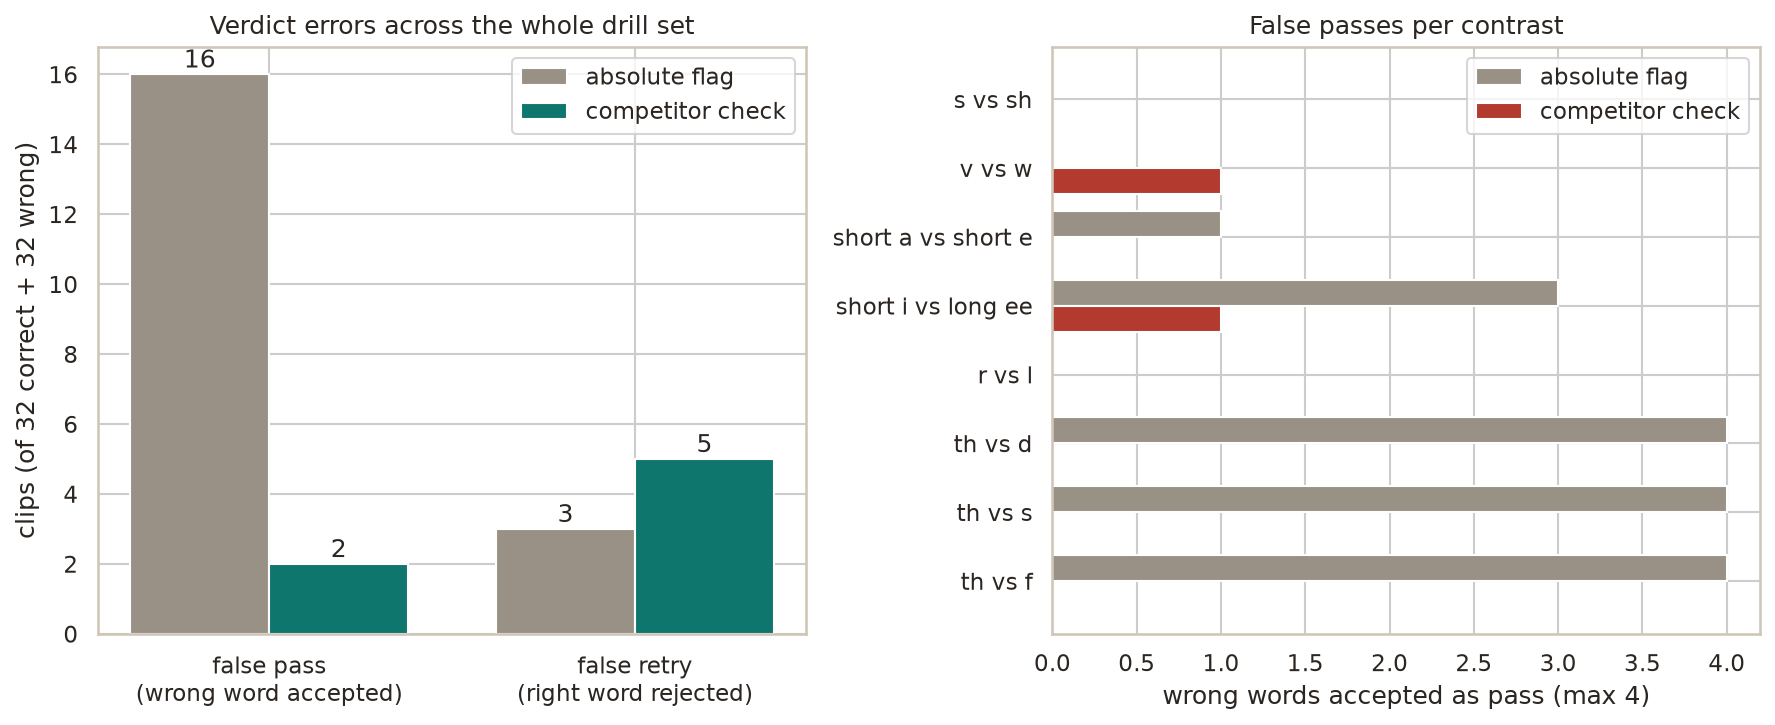
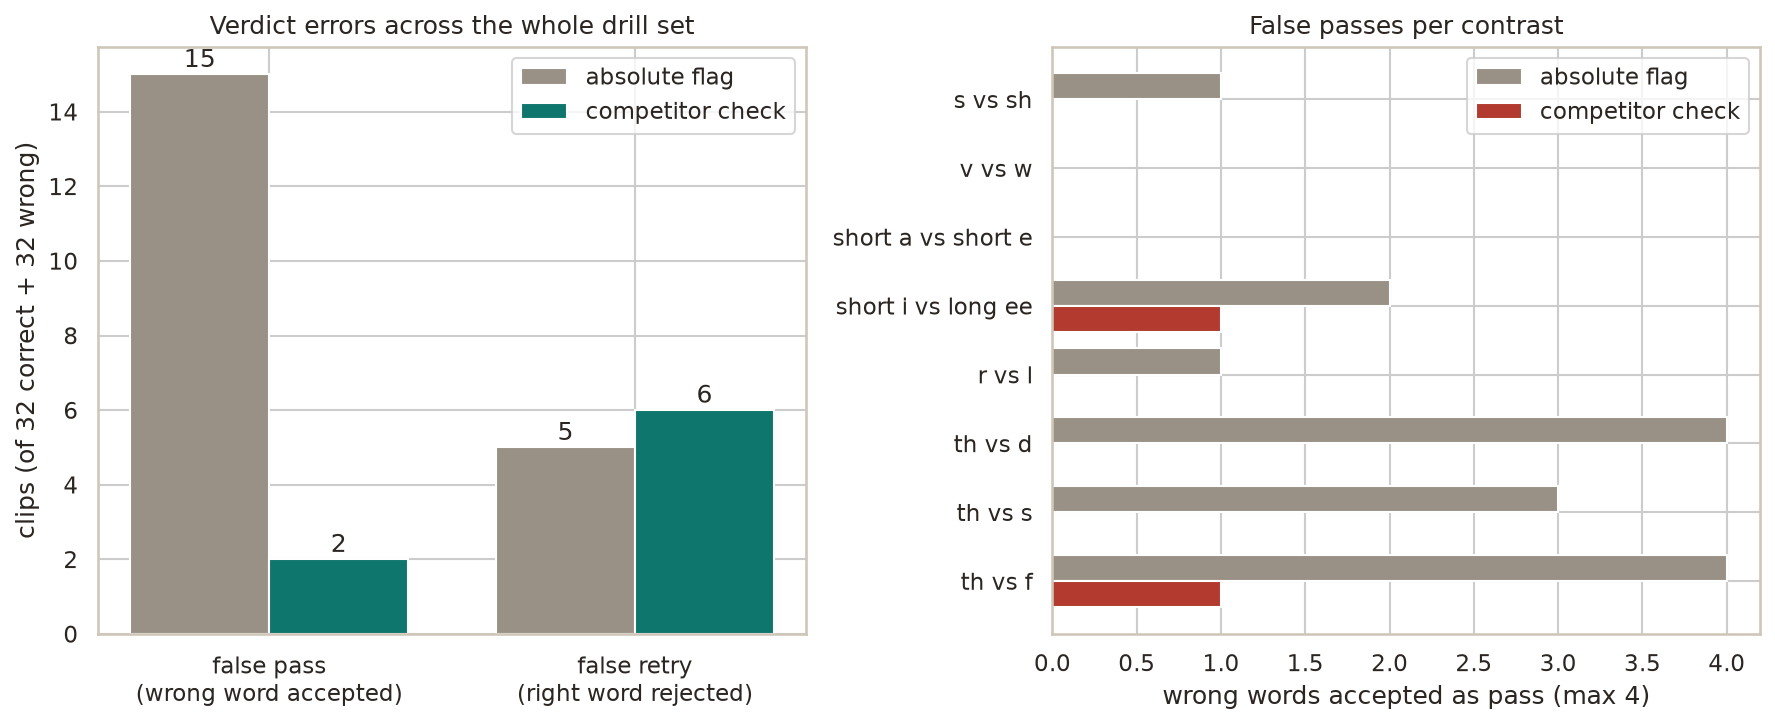
test(calibration): add the word-identity recognition check

diff --git a/backend/calibration/contrast_eval.py b/backend/calibration/contrast_eval.py
@@ -29,10 +29,15 @@ from diction.config import Settings
 from diction.drills.minimal_pairs_data import MINIMAL_PAIR_CONTRASTS
 from diction.scoring.audio import MIN_WORD_CLIP_SECONDS, ClipTooWeakError
 from diction.scoring.scorer_gop import GopScorer
+from diction.scoring.text import normalize_word
 from diction.scoring.transcription import WhisperTranscriber
 from diction.tts.synth_piper import PiperSynthesizer
 
 HERE = Path(__file__).parent
+
+# Real words that are in no drill pair, to confirm the word-identity gate
+# rejects a clip that is neither sound of a contrast.
+DECOY_WORDS = ('rabbit', 'table', 'orange')
 
 
 def _old_verdict(scorer: GopScorer, word: str, audio: bytes, target: str) -> bool:
@@ -125,11 +130,55 @@ def main() -> None:
     )
     print(f'  unscorable clips (too weak/short)      : {tally["errors"]}')
 
+    recognition = _recognition_check(scorer, clip)
+
     out = HERE / 'contrast_eval.json'
     out.write_text(
-        json.dumps({'tally': tally, 'rows': rows}, ensure_ascii=False, indent=2)
+        json.dumps(
+            {'tally': tally, 'rows': rows, 'recognition': recognition},
+            ensure_ascii=False,
+            indent=2,
+        )
     )
     print(f'\nwrote {out}')
+
+
+def _recognition_check(scorer, clip) -> dict:  # type: ignore[no-untyped-def]
+    """Regression guard for the word-identity gate: each drill word, heard with
+    its own pair as the bias, should be recognized as one of the pair, and a
+    decoy word should still be rejected under that bias. A clean synthetic clip
+    is easy for Whisper, so this proves the gate does not block the drill's own
+    vocabulary and the bias does not force a false match, not real-speaker
+    accuracy."""
+    total = 0
+    recognized = 0
+    for contrast in MINIMAL_PAIR_CONTRASTS:
+        for pair in contrast.pairs:
+            expected = [pair.word_a, pair.word_b]
+            pair_words = {normalize_word(pair.word_a), normalize_word(pair.word_b)}
+            for spoken in expected:
+                total += 1
+                heard = scorer.recognize_word(clip(spoken), expected)
+                if heard in pair_words:
+                    recognized += 1
+                else:
+                    print(f"  '{spoken}' (pair {pair_words}) heard as '{heard}'")
+
+    first = MINIMAL_PAIR_CONTRASTS[0].pairs[0]
+    decoy_pair = [first.word_a, first.word_b]
+    decoy_words = {normalize_word(w) for w in decoy_pair}
+    decoys = {d: scorer.recognize_word(clip(d), decoy_pair) for d in DECOY_WORDS}
+    leaked = [d for d, heard in decoys.items() if heard in decoy_words]
+
+    print('\n=== word-identity gate ===')
+    print(f'  drill words recognized as their pair: {recognized}/{total}')
+    print(f'  decoys forced onto a pair           : {len(leaked)} {leaked}')
+    return {
+        'drill_word_reps': total,
+        'recognized': recognized,
+        'decoys': decoys,
+        'leaked': leaked,
+    }
 
 
 if __name__ == '__main__':

diff --git a/backend/calibration/CONTRAST_EVAL.md b/backend/calibration/CONTRAST_EVAL.md
@@ -34,14 +34,17 @@ real-speaker accuracy number.
 
 ## Findings
 
-Across 32 pairs (64 clips), the competitor check cuts false passes by 8x while
-barely moving false retries:
+Across 32 pairs (64 clips), the competitor check cuts false passes roughly 8x
+while barely moving false retries:
 
 | Error                             | Absolute flag | Competitor check |
 | --------------------------------- | ------------- | ---------------- |
-| False pass (wrong word accepted)  | 16            | 2                |
-| False retry (right word rejected) | 3             | 5                |
+| False pass (wrong word accepted)  | 15            | 2                |
+| False retry (right word rejected) | 5             | 6                |
 | Unscorable (clip too short)       | 7             | 7                |
+
+Numbers shift a clip or two between runs, since Whisper transcription and forced
+alignment are not fully deterministic. The shape holds.
 
 The absolute flag accepted the wrong word on half of all attempts. The `th`
 family (`θ`, `ð`) and short-i were fully broken and are now caught. `r vs l` and
@@ -51,6 +54,10 @@ word-initial. The 7 unscorable clips are short words hitting the duration floor,
 a separate robustness gap.
 
 ![Verdict errors before and after the competitor check](figures/contrast_verdict.png)
+
+## Word-identity gate
+
+The same harness also checks the Whisper word-identity gate, which stops a clip that is neither word of the pair from earning a verdict. Whisper gets a short isolated word wrong without context (clean synthetic "thin" comes back as "soon"), so the gate biases decoding toward the two expected words with an `initial_prompt`. Under that bias 63 of 64 drill words are recognized as their pair, and no decoy (`rabbit`, `table`, `orange`) is forced onto a pair, so the bias helps without inventing a false match. This is a regression guard on clean synthetic clips, not a real-speaker accuracy number. The gate's real risk, Whisper mis-hearing a short human clip, needs real recordings to measure.
 
 ## Re-run
 